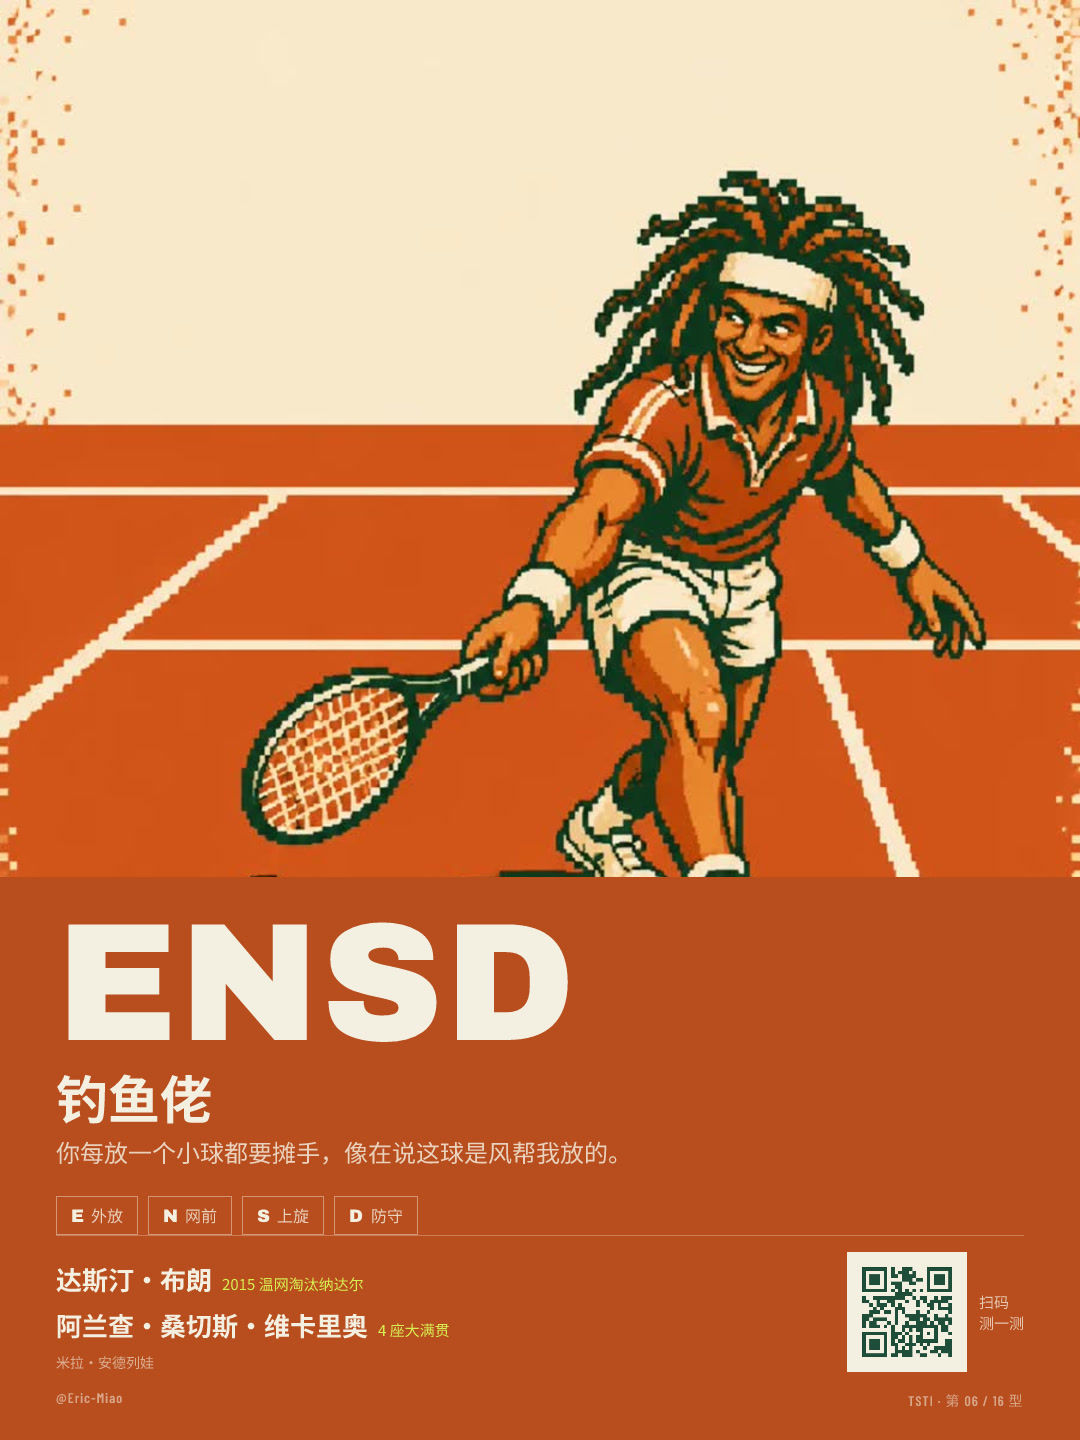
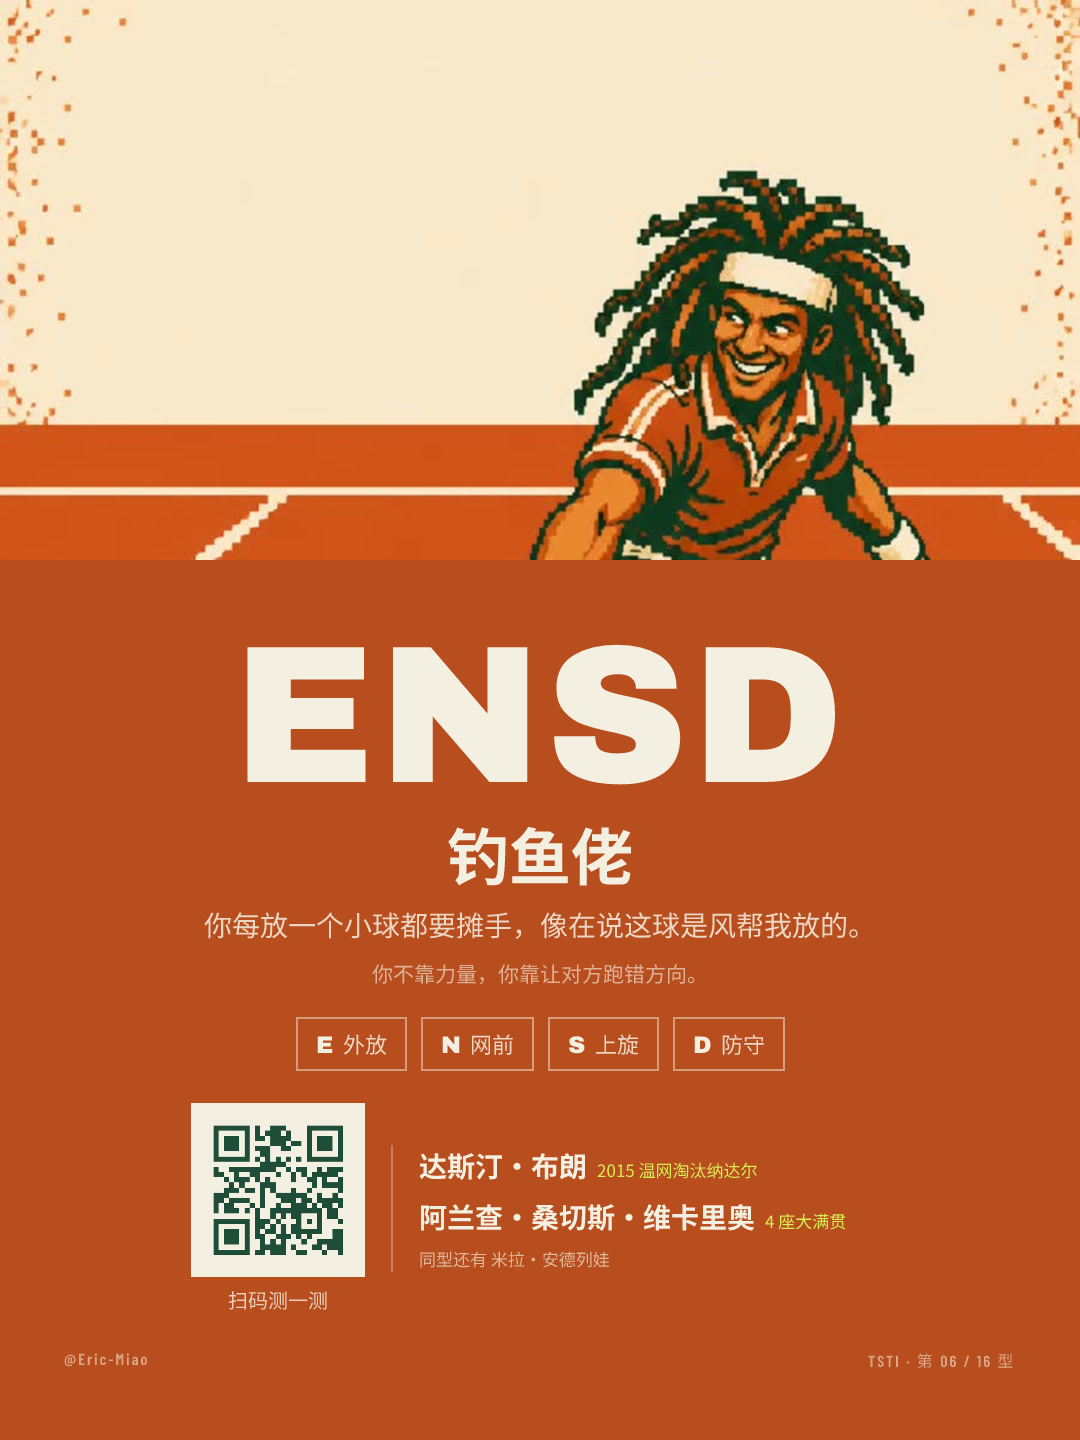
design: 卡片改为满幅图 + 居中信息块，文字与二维码放大，加入球场画像一句话

diff --git a/shared/CardTemplate.tsx b/shared/CardTemplate.tsx
@@ -10,26 +10,23 @@ export interface CardProps {
   handle: string
 }
 
-const AXES = ['EI', 'BN', 'SF', 'AD'] as const
-
 const C = {
   paper: '#F5EFE3',
-  ink: '#16241C',
   ball: '#D8EF52',
 }
+
+const AXES = ['EI', 'BN', 'SF', 'AD'] as const
 
 /** 场地决定色块：上旋=红土 / 网前平击=草地 / 底线平击=硬地 */
 function blockColor(code: string) {
   const [, pos, spin] = code.split('')
-  if (spin === 'S') return '#B84D1E' // 红土
-  if (pos === 'N') return '#4F6B48' // 草地
-  return '#34506B' // 硬地
+  if (spin === 'S') return '#B84D1E'
+  if (pos === 'N') return '#4F6B48'
+  return '#34506B'
 }
 
 export function CardTemplate({ type, index, artSrc, qrSrc, handle }: CardProps) {
   const bg = blockColor(type.code)
-  const [m1, m2] = type.players
-  const extra = type.players.slice(2)
 
   return (
     <div
@@ -37,121 +34,163 @@ export function CardTemplate({ type, index, artSrc, qrSrc, handle }: CardProps) 
         width: 1080,
         height: 1440,
         display: 'flex',
-        flexDirection: 'column',
+        position: 'relative',
         background: bg,
         color: C.paper,
         fontFamily: 'Noto',
       }}
     >
-      {/* 上半：插图满幅 */}
+      {/* 满幅插图 */}
       <img
         src={artSrc}
         width={1080}
-        height={880}
-        style={{ width: 1080, height: 880, objectFit: 'cover', objectPosition: 'center top' }}
+        height={1440}
+        style={{
+          position: 'absolute',
+          left: 0,
+          top: 0,
+          width: 1080,
+          height: 1440,
+          objectFit: 'cover',
+          objectPosition: 'center top',
+        }}
       />
 
-      {/* 下半：色块 */}
+      {/* 居中信息块 */}
       <div
         style={{
+          position: 'absolute',
+          left: 0,
+          right: 0,
+          bottom: 0,
+          height: 880,
+          background: bg,
           display: 'flex',
           flexDirection: 'column',
-          flex: 1,
-          padding: '30px 56px 30px',
-          justifyContent: 'space-between',
+          alignItems: 'center',
+          justifyContent: 'center',
+          padding: '0 64px',
         }}
       >
-        <div style={{ display: 'flex', flexDirection: 'column' }}>
-          <div
-            style={{
-              fontFamily: 'Archivo',
-              fontSize: 168,
-              lineHeight: 0.92,
-              letterSpacing: 2,
-              color: C.paper,
-            }}
-          >
-            {type.code}
-          </div>
-          <div style={{ fontSize: 52, fontWeight: 700, marginTop: 6, lineHeight: 1.1 }}>
-            {type.name}
-          </div>
-          <div style={{ fontSize: 24, lineHeight: 1.45, marginTop: 10, color: 'rgba(245,239,227,0.82)' }}>
-            {type.tagline}
-          </div>
-
-          <div style={{ display: 'flex', gap: 10, marginTop: 26 }}>
-            {type.code.split('').map((l, i) => {
-              const meta = DIMENSIONS[AXES[i]]
-              const label = l === meta.left ? meta.leftLabel : meta.rightLabel
-              return (
-                <div
-                  key={l}
-                  style={{
-                    display: 'flex',
-                    alignItems: 'baseline',
-                    border: '1.5px solid rgba(245,239,227,0.45)',
-                    padding: '7px 14px',
-                  }}
-                >
-                  <div style={{ fontFamily: 'Archivo', fontSize: 18 }}>{l}</div>
-                  <div style={{ fontSize: 16, marginLeft: 7, color: 'rgba(245,239,227,0.8)' }}>
-                    {label}
-                  </div>
-                </div>
-              )
-            })}
-          </div>
+        <div
+          style={{
+            fontFamily: 'Archivo',
+            fontSize: 196,
+            lineHeight: 0.9,
+            letterSpacing: 4,
+          }}
+        >
+          {type.code}
         </div>
 
-        <div style={{ display: 'flex', flexDirection: 'column' }}>
-          <div style={{ height: 1, background: 'rgba(245,239,227,0.3)', marginBottom: 16 }} />
-          <div style={{ display: 'flex', justifyContent: 'space-between', alignItems: 'flex-end' }}>
-            <div style={{ display: 'flex', flexDirection: 'column', width: 760 }}>
-              <div style={{ display: 'flex', flexDirection: 'column' }}>
-                <div style={{ display: 'flex', alignItems: 'baseline' }}>
-                  <div style={{ fontSize: 26, fontWeight: 700 }}>{m1.name}</div>
-                  <div style={{ fontSize: 15, color: C.ball, marginLeft: 10 }}>{m1.title}</div>
-                </div>
-                <div style={{ display: 'flex', alignItems: 'baseline', marginTop: 8 }}>
-                  <div style={{ fontSize: 26, fontWeight: 700 }}>{m2.name}</div>
-                  <div style={{ fontSize: 15, color: C.ball, marginLeft: 10 }}>{m2.title}</div>
-                </div>
-                {extra.length > 0 && (
-                  <div style={{ display: 'flex', marginTop: 8, color: 'rgba(245,239,227,0.6)', fontSize: 14 }}>
-                    {extra.map((p) => p.name).join(' · ')}
-                  </div>
-                )}
-              </div>
-            </div>
+        <div style={{ fontSize: 62, fontWeight: 700, marginTop: 14, lineHeight: 1.1 }}>
+          {type.name}
+        </div>
 
-            <div style={{ display: 'flex', alignItems: 'center', gap: 12 }}>
-              <div style={{ display: 'flex', background: C.paper, padding: 8 }}>
-                <img src={qrSrc} width={104} height={104} style={{ width: 104, height: 104 }} />
+        <div
+          style={{
+            fontSize: 28,
+            lineHeight: 1.5,
+            marginTop: 16,
+            color: 'rgba(245,239,227,0.85)',
+            textAlign: 'center',
+            maxWidth: 820,
+          }}
+        >
+          {type.tagline}
+        </div>
+
+        <div
+          style={{
+            fontSize: 21,
+            lineHeight: 1.6,
+            marginTop: 12,
+            color: 'rgba(245,239,227,0.62)',
+            textAlign: 'center',
+            maxWidth: 760,
+          }}
+        >
+          {type.summary.split('。')[0]}。
+        </div>
+
+        <div style={{ display: 'flex', gap: 14, marginTop: 26 }}>
+          {type.code.split('').map((l, i) => {
+            const meta = DIMENSIONS[AXES[i]]
+            const label = l === meta.left ? meta.leftLabel : meta.rightLabel
+            return (
+              <div
+                key={l}
+                style={{
+                  display: 'flex',
+                  alignItems: 'baseline',
+                  border: '2px solid rgba(245,239,227,0.5)',
+                  padding: '9px 18px',
+                }}
+              >
+                <div style={{ fontFamily: 'Archivo', fontSize: 24 }}>{l}</div>
+                <div style={{ fontSize: 22, marginLeft: 9, color: 'rgba(245,239,227,0.85)' }}>
+                  {label}
+                </div>
               </div>
-              <div style={{ display: 'flex', flexDirection: 'column', fontSize: 15, lineHeight: 1.4, color: 'rgba(245,239,227,0.75)' }}>
-                <div>扫码</div>
-                <div>测一测</div>
-              </div>
+            )
+          })}
+        </div>
+
+        <div
+          style={{
+            display: 'flex',
+            alignItems: 'center',
+            gap: 26,
+            marginTop: 32,
+          }}
+        >
+          <div style={{ display: 'flex', flexDirection: 'column', alignItems: 'center', gap: 9 }}>
+            <div style={{ display: 'flex', background: C.paper, padding: 12 }}>
+              <img src={qrSrc} width={150} height={150} style={{ width: 150, height: 150 }} />
             </div>
+            <div style={{ fontSize: 20, color: 'rgba(245,239,227,0.8)' }}>扫码测一测</div>
           </div>
 
           <div
             style={{
               display: 'flex',
-              justifyContent: 'space-between',
-              marginTop: 18,
-              fontFamily: 'Barlow',
-              fontSize: 14,
-              letterSpacing: 1,
-              color: 'rgba(245,239,227,0.55)',
+              flexDirection: 'column',
+              gap: 10,
+              borderLeft: '2px solid rgba(245,239,227,0.3)',
+              paddingLeft: 26,
+              width: 470,
             }}
           >
-            <div style={{ display: 'flex' }}>{handle}</div>
-            <div style={{ display: 'flex' }}>
-              TSTI · 第 {String(index).padStart(2, '0')} / 16 型
-            </div>
+            {type.players.slice(0, 2).map((p) => (
+              <div key={p.name} style={{ display: 'flex', flexDirection: 'column' }}>
+                <div style={{ display: 'flex', alignItems: 'baseline' }}>
+                  <div style={{ fontSize: 28, fontWeight: 700 }}>{p.name}</div>
+                  <div style={{ fontSize: 17, color: C.ball, marginLeft: 10 }}>{p.title}</div>
+                </div>
+              </div>
+            ))}
+            {type.players.length > 2 && (
+              <div style={{ display: 'flex', fontSize: 17, color: 'rgba(245,239,227,0.65)' }}>
+                同型还有 {type.players.slice(2).map((p) => p.name).join('、')}
+              </div>
+            )}
           </div>
+        </div>
+
+        <div
+          style={{
+            display: 'flex',
+            justifyContent: 'space-between',
+            width: '100%',
+            marginTop: 34,
+            fontFamily: 'Barlow',
+            fontSize: 16,
+            letterSpacing: 2,
+            color: 'rgba(245,239,227,0.55)',
+          }}
+        >
+          <div style={{ display: 'flex' }}>{handle}</div>
+          <div style={{ display: 'flex' }}>TSTI · 第 {String(index).padStart(2, '0')} / 16 型</div>
         </div>
       </div>
     </div>
